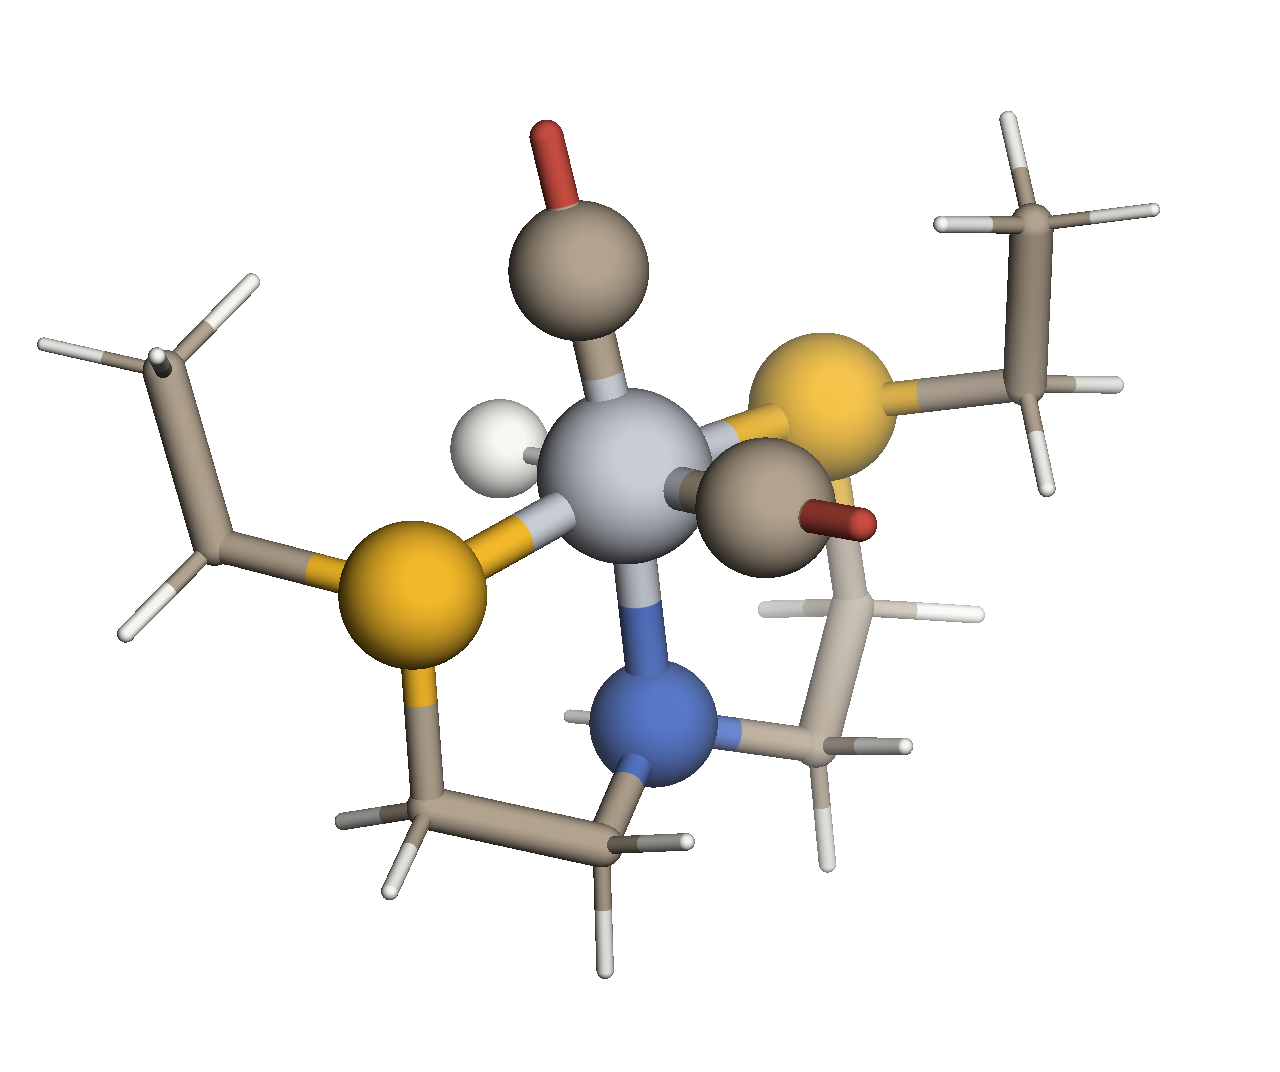
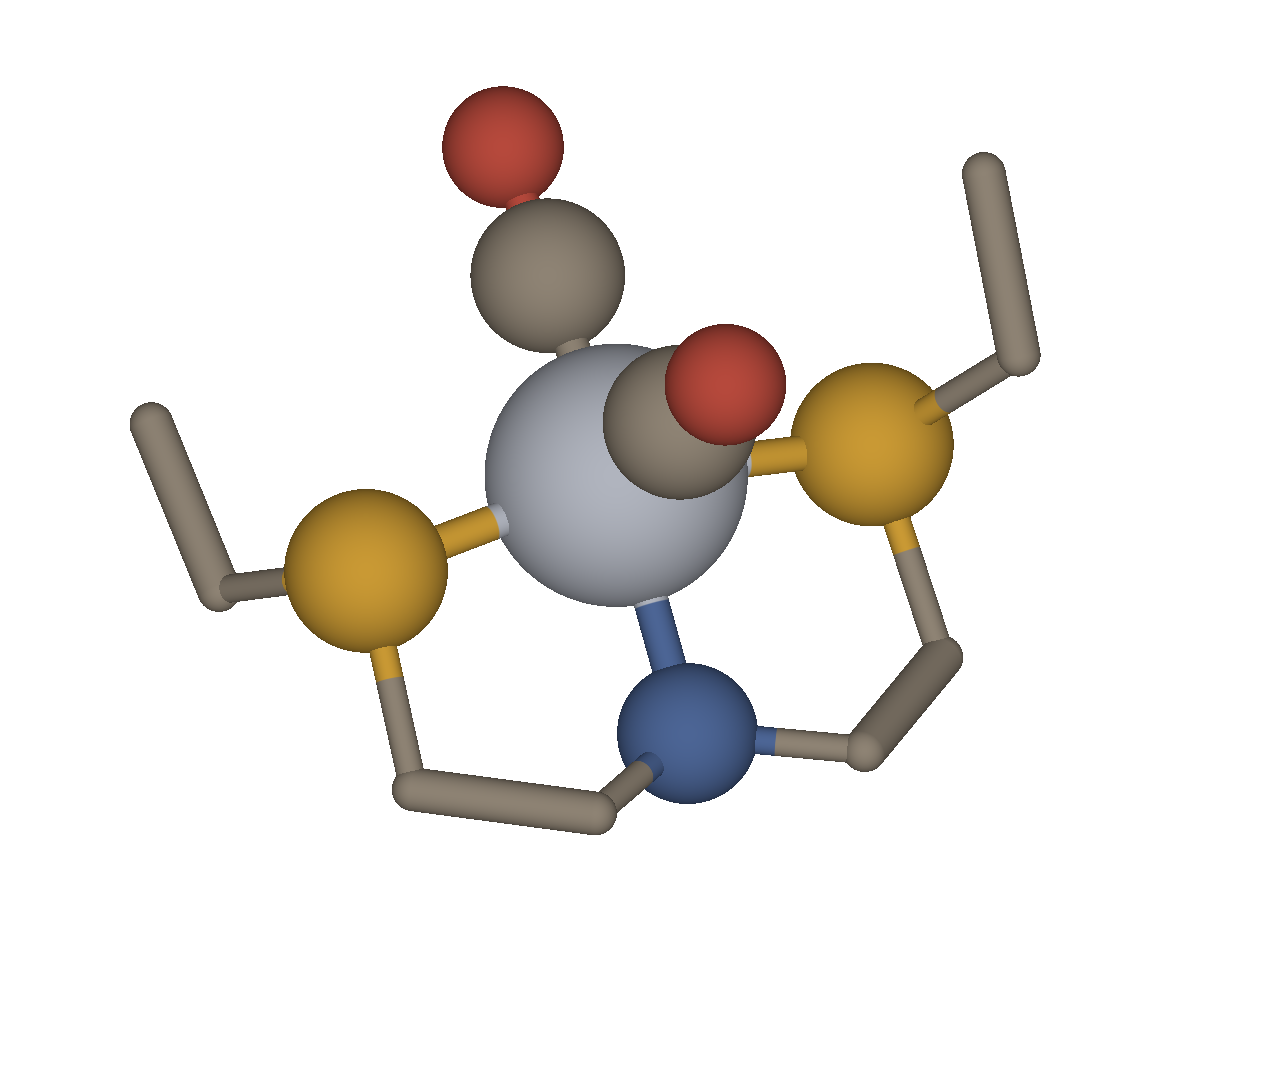
refactor: update coordination decision logic

Changed region(s): [[0.0312, 0.0616, 0.9062, 0.9235], [0.0938, 0.5541, 0.125, 0.6157], [0.1875, 0.2463, 0.2188, 0.2771]]

diff --git a/chemsmart/jobs/mol/templates/scientific_styles.py b/chemsmart/jobs/mol/templates/scientific_styles.py
@@ -12,6 +12,7 @@ In PyMOL directly::
     render_soft_cartoon all
     render_editorial_minimal all
     render_soft_ceramic all
+    render_matte_clay all
 """
 
 from pymol import cmd
@@ -375,8 +376,6 @@ def render_comic_metallic_labeled_final(
     sel = f"({selection})"
     metal_name = "comic_metal_atom"
 
-    cmd.delete(metal_name)
-
     cmd.hide("everything", sel)
     cmd.show("sticks", sel)
     cmd.show("spheres", sel)
@@ -460,9 +459,6 @@ def render_soft_cartoon(selection="all", background=None, highlight_bonds=""):
     metal_name = "soft_cartoon_metal_atom"
     coord_core_name = "soft_cartoon_coord_core"
     highlight_bonds = _normalize_none(highlight_bonds)
-
-    cmd.delete(metal_name)
-    cmd.delete(coord_core_name)
 
     cmd.hide("everything", sel)
     cmd.show("sticks", sel)
@@ -561,10 +557,6 @@ def _common_select_core(selection="all", cutoff=2.6, highlight_bonds=None):
     sel = f"({selection})"
     highlight_bonds = _normalize_none(highlight_bonds)
 
-    cmd.delete("metal_atom")
-    cmd.delete("coord_core")
-    cmd.delete("near_core")
-
     if highlight_bonds:
         coord_sel = _highlight_bonds_to_coord_sel(highlight_bonds)
         cmd.select("coord_core", f"{sel} and ({coord_sel})")
@@ -606,9 +598,6 @@ def _define_scientific_colors():
         "neon_cyan": [0.00, 0.85, 1.00],
         "neon_magenta": [1.00, 0.05, 0.75],
         "neon_green": [0.15, 1.00, 0.35],
-        "clay_carbon": [0.70, 0.64, 0.56],
-        "clay_blue": [0.32, 0.45, 0.78],
-        "clay_red": [0.78, 0.30, 0.25],
         "surface_sky": [0.55, 0.78, 1.00],
         "surface_warm": [1.00, 0.76, 0.45],
     }
@@ -759,18 +748,6 @@ def render_editorial_minimal(selection="all", highlight_bonds=""):
     highlight_bonds = _normalize_none(highlight_bonds)
     sel = f"({selection})"
 
-    for name in (
-        "editorial_metal",
-        "editorial_donors",
-        "editorial_n_donors",
-        "editorial_s_donors",
-        "editorial_co_carbons",
-        "editorial_co_oxygens",
-        "editorial_important_H",
-        "editorial_sphere_atoms",
-    ):
-        cmd.delete(name)
-
     _define_editorial_minimal_colors()
     cmd.hide("everything", sel)
 
@@ -897,19 +874,6 @@ def render_soft_ceramic(selection="all", highlight_bonds=""):
     """
     highlight_bonds = _normalize_none(highlight_bonds)
     sel = f"({selection})"
-
-    for name in (
-        "soft_ceramic_metal",
-        "soft_ceramic_donor_s",
-        "soft_ceramic_donor_n",
-        "soft_ceramic_co_c",
-        "soft_ceramic_co_o",
-        "soft_ceramic_hydride",
-        "soft_ceramic_nh_h",
-        "soft_ceramic_important_h",
-        "soft_ceramic_coordination_core",
-    ):
-        cmd.delete(name)
 
     _define_soft_ceramic_colors()
     cmd.hide("everything", sel)
@@ -1056,34 +1020,148 @@ def render_neon_coordination_core(selection="all", highlight_bonds=""):
     )
 
 
+def _define_matte_clay_colors():
+    """Register muted ceramic/chalk colors used by the matte-clay style."""
+    for name, rgb in {
+        "mc_framework": [0.555, 0.515, 0.455],
+        "mc_hydrogen": [0.875, 0.865, 0.820],
+        "mc_nitrogen": [0.300, 0.395, 0.585],
+        "mc_oxygen": [0.715, 0.285, 0.235],
+        "mc_chalcogen": [0.790, 0.600, 0.205],
+        "mc_pnictogen": [0.655, 0.420, 0.275],
+        "mc_halogen": [0.455, 0.565, 0.455],
+        "mc_metal_center": [0.690, 0.705, 0.745],
+    }.items():
+        try:
+            cmd.set_color(name, rgb)
+        except Exception:
+            pass
+
+
 def render_matte_clay(selection="all", highlight_bonds=""):
-    """Matte clay model style for soft graphical abstracts."""
-    _begin_scientific_style(selection, highlight_bonds=highlight_bonds)
-    _show_coord_ball_and_stick(selection)
-    _apply_coord_sphere_scales(0.14, 0.18, 0.30, 0.15, 0.55, 0.40)
+    """Matte clay style for soft graphical abstracts.
 
-    cmd.color("clay_carbon", "elem C")
-    cmd.color("sci_H_white", "elem H")
-    cmd.color("clay_blue", "elem N")
-    cmd.color("clay_red", "elem O")
-    cmd.color("sci_S_yellow", "elem S")
-    cmd.color("sci_P_orange", "elem P")
-    cmd.color("sci_halogen", "elem F+Cl+Br+I")
-    cmd.color("metal_silver", "metal_atom")
+    Uses the same ``within X of metal`` coordination-core selection pattern as
+    soft-ceramic / editorial styles. Non-core hydrogens are hidden.
+    Optional ``highlight_bonds`` preserves CHEMSMART ``-c`` highlighting.
+    """
+    highlight_bonds = _normalize_none(highlight_bonds)
+    sel = f"({selection})"
 
-    _apply_lighting(0.08, 0.00, 0.55, 0.48, 0.03, spec_power=30)
-    _apply_view(
-        orthoscopic=1,
-        field_of_view=28,
-        depth_cue=1,
-        fog_start=0.50,
-        ray_shadows_mode="soft",
+    _define_matte_clay_colors()
+    cmd.hide("everything", sel)
+    _safe_set("valence", 0)
+    _safe_set("stick_ball", 0)
+
+    cmd.select("matte_clay_metal", f"{sel} and ({_METAL_ELEMENTS})")
+    cmd.select(
+        "matte_clay_donor_s",
+        f"{sel} and (elem S) within 2.8 of matte_clay_metal",
     )
-    _finish_scientific_style(
-        selection,
-        highlight_bonds=highlight_bonds,
-        message="Matte clay style applied.",
+    cmd.select(
+        "matte_clay_donor_n",
+        f"{sel} and (elem N) within 2.8 of matte_clay_metal",
     )
+    cmd.select(
+        "matte_clay_donor_p",
+        f"{sel} and (elem P) within 2.8 of matte_clay_metal",
+    )
+    cmd.select(
+        "matte_clay_co_c",
+        f"{sel} and (elem C) within 2.10 of matte_clay_metal",
+    )
+    cmd.select(
+        "matte_clay_co_o",
+        f"{sel} and (elem O) within 1.35 of matte_clay_co_c",
+    )
+    cmd.select(
+        "matte_clay_hydride",
+        f"{sel} and (elem H) within 1.85 of matte_clay_metal",
+    )
+    cmd.select(
+        "matte_clay_coordination_core",
+        "matte_clay_metal or matte_clay_donor_s or matte_clay_donor_n "
+        "or matte_clay_donor_p or matte_clay_co_c or matte_clay_co_o "
+        "or matte_clay_hydride",
+    )
+
+    cmd.color(
+        "mc_framework",
+        f"{sel} and (elem C+H) and not matte_clay_co_c "
+        "and not matte_clay_hydride",
+    )
+    cmd.color("mc_framework", "matte_clay_co_c")
+    cmd.color("mc_metal_center", "matte_clay_metal")
+    cmd.color("mc_chalcogen", "matte_clay_donor_s")
+    cmd.color("mc_nitrogen", "matte_clay_donor_n")
+    cmd.color("mc_pnictogen", "matte_clay_donor_p")
+    cmd.color("mc_oxygen", "matte_clay_co_o")
+    cmd.color("mc_hydrogen", "matte_clay_hydride")
+    cmd.color("mc_halogen", f"{sel} and elem F+Cl+Br+I")
+
+    cmd.show("sticks", sel)
+    cmd.hide("sticks", f"{sel} and elem H and not matte_clay_hydride")
+    cmd.hide("spheres", f"{sel} and elem H and not matte_clay_hydride")
+    cmd.show("spheres", "matte_clay_coordination_core")
+
+    _safe_set("sphere_scale", 0.62, "matte_clay_metal")
+    _safe_set("sphere_scale", 0.36, "matte_clay_donor_s")
+    _safe_set("sphere_scale", 0.34, "matte_clay_donor_n")
+    _safe_set("sphere_scale", 0.34, "matte_clay_donor_p")
+    _safe_set("sphere_scale", 0.30, "matte_clay_co_c")
+    _safe_set("sphere_scale", 0.28, "matte_clay_co_o")
+    _safe_set("sphere_scale", 0.24, "matte_clay_hydride")
+
+    _safe_set("stick_radius", 0.108, sel)
+    _safe_set(
+        "stick_radius",
+        0.138,
+        "matte_clay_metal or matte_clay_coordination_core",
+    )
+
+    # Transparent background and zero-gloss clay material with soft AO.
+    cmd.bg_color("white")
+    _safe_set("ray_opaque_background", 0)
+    _safe_set("specular", 0.0)
+    _safe_set("specular_intensity", 0.0)
+    _safe_set("spec_direct", 0.0)
+    _safe_set("spec_reflect", 0.0)
+    _safe_set("spec_power", 1.0)
+    _safe_set("shininess", 0.0)
+    _safe_set("reflect", 0.0)
+    _safe_set("ray_transparency_specular", 0.0)
+    _safe_set("ambient", 0.42)
+    _safe_set("direct", 0.58)
+    _safe_set("light_count", 3)
+    _safe_set("light", [-0.40, -0.55, -1.00])
+    _safe_set("two_sided_lighting", 1)
+    _safe_set("ray_shadow", 1)
+    _safe_set("ray_trace_mode", 0)
+    _safe_set("ray_trace_gain", 0.0)
+    _safe_set("ambient_occlusion_mode", 1)
+    _safe_set("ambient_occlusion_scale", 18)
+    _safe_set("ambient_occlusion_smooth", 14)
+    _safe_set("ray_shadow_decay_factor", 0.28)
+    _safe_set("ray_shadow_decay_range", 2.0)
+    _safe_set("use_shaders", 1)
+    _safe_set("antialias", 2)
+    _safe_set("ray_trace_antialias", 2)
+    _safe_set("sphere_quality", 4)
+    _safe_set("stick_quality", 32)
+    _safe_set("orthoscopic", 1)
+    _safe_set("depth_cue", 0)
+    _safe_set("ray_trace_fog", 0)
+
+    if highlight_bonds:
+        _apply_coordination_highlight_bonds(
+            highlight_bonds,
+            sel,
+            "matte_clay_metal",
+        )
+
+    cmd.label("all", '""')
+    _finish_style(selection)
+    print("Matte clay style applied.")
 
 
 def render_xray_wire(selection="all", highlight_bonds=""):

diff --git a/tests/test_PyMOLJobs.py b/tests/test_PyMOLJobs.py
@@ -22,6 +22,7 @@ from chemsmart.jobs.mol.runner import (
 from chemsmart.jobs.mol.spin import PyMOLSpinJob
 from chemsmart.jobs.mol.templates.scientific_styles import (
     render_editorial_minimal,
+    render_matte_clay,
     render_soft_ceramic,
 )
 from chemsmart.jobs.mol.visualize import (
@@ -971,6 +972,7 @@ class TestPyMOLStyleCommands:
             ("neon_coordination_core", "render_neon_coordination_core"),
             ("editorial_minimal", "render_editorial_minimal"),
             ("soft_ceramic", "render_soft_ceramic"),
+            ("matte_clay", "render_matte_clay"),
         ],
     )
     def test_format_pymol_style_command_for_derived_styles_on_1_mer(
@@ -1011,6 +1013,10 @@ class TestPyMOLStyleCommands:
             (
                 "soft_ceramic",
                 "render_soft_ceramic 1-mer, 1-2+1-5+1-36+1-3+1-15+1-8",
+            ),
+            (
+                "matte_clay",
+                "render_matte_clay 1-mer, 1-2+1-5+1-36+1-3+1-15+1-8",
             ),
         ],
     )
@@ -1091,6 +1097,31 @@ class TestPyMOLStyleCommands:
         assert 'cmd.bg_color("studio_background")' in source
         assert '_safe_set("ray_opaque_background", 1)' in source
         assert "_apply_coordination_highlight_bonds" in source
+
+    def test_render_matte_clay_defines_expected_visual_parameters(self):
+        source = inspect.getsource(render_matte_clay)
+
+        assert (
+            'cmd.select("matte_clay_metal", f"{sel} and ({_METAL_ELEMENTS})")'
+            in source
+        )
+        assert "within 2.8 of matte_clay_metal" in source
+        assert "(elem C) within 2.10 of matte_clay_metal" in source
+        assert "(elem O) within 1.35 of matte_clay_co_c" in source
+        assert "(elem H) within 1.85 of matte_clay_metal" in source
+        assert (
+            'cmd.hide("sticks", f"{sel} and elem H and not matte_clay_hydride")'
+            in source
+        )
+        assert '_safe_set("sphere_scale", 0.62, "matte_clay_metal")' in source
+        assert 'cmd.color("mc_metal_center", "matte_clay_metal")' in source
+        assert 'cmd.bg_color("white")' in source
+        assert '_safe_set("ray_opaque_background", 0)' in source
+        assert '_safe_set("ambient_occlusion_mode", 1)' in source
+        assert '_safe_set("ambient_occlusion_scale", 18)' in source
+        assert "_apply_coordination_highlight_bonds" in source
+        assert "_mc_detect_centers" not in source
+        assert "_mc_distance" not in source
 
     def test_hybrid_is_not_a_derived_style(self):
         with pytest.raises(ValueError, match="not available"):

diff --git a/docs/source/pymol-visualization.rst b/docs/source/pymol-visualization.rst
@@ -393,7 +393,7 @@ CHEMSMART applies ``scientific_styles.py`` for ``visualize -s`` choices includin
    -  -  ``neon-coordination-core``
       -  Neon coordination-core emphasis for reactive centers and TSs
    -  -  ``matte-clay``
-      -  Soft clay/plastic look for graphical abstracts
+      -  Matte clay ball-and-stick with coordination-core emphasis and core hydrogens
    -  -  ``xray-wire``
       -  Monochrome wireframe style for SI structure verification
    -  -  ``steric-surface``